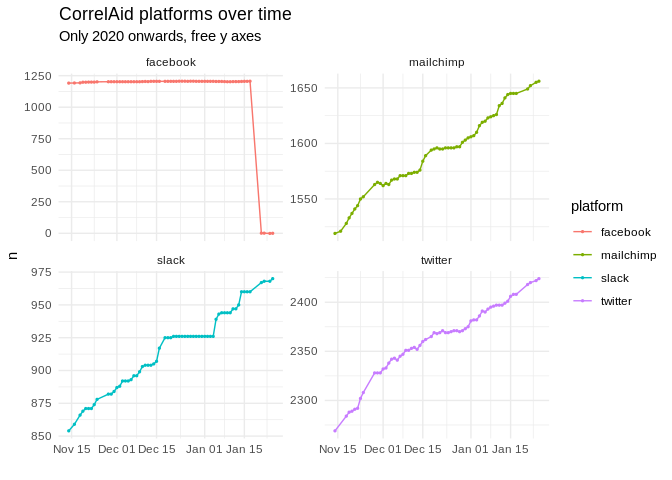
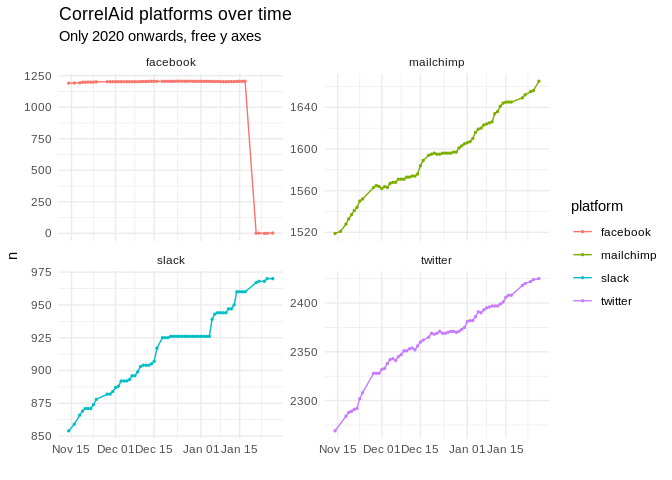
🤖 CRON - update daily data

diff --git a/README.md b/README.md
@@ -25,7 +25,7 @@ count and general network data on a daily basis using
 
 ### Plots
 
-*last updated*: 2021-01-25
+*last updated*: 2021-01-27
 23:50:13
 
 ![](README_files/figure-gfm/plot-alltime-1.png)<!-- -->
